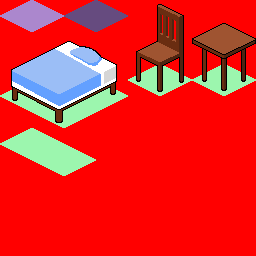
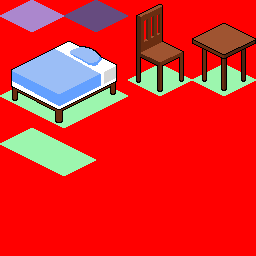
new sitting animation + base of sleeping animation

Changed region(s): [[0.5312, 0.0, 0.7188, 0.3438]]

diff --git a/src/menus/port_menu.py b/src/menus/port_menu.py
@@ -1442,6 +1442,8 @@ class PortMenu:
             )
             shipgirl.rect.center = shipgirl.pos
             shipgirl.interacting_decoration = tuple(tilepos_anchor)
+            shipgirl.sprite.set_animation(decoration_store_info.get("shipgirl_animation", Live2D.IDLE_ANIMATION))
+            shipgirl.facing_left = flipped
             return True
 
         shipgirl.interacting_decoration = None

diff --git a/src/shipgirls.py b/src/shipgirls.py
@@ -599,7 +599,6 @@ class Shipgirl:
             return
         
         if self.interacting_decoration is not None:
-            self.sprite.set_animation(Live2D.IDLE_ANIMATION)
             return
         
         if self.pause_time > 0:

diff --git a/live2d/live2d.py b/live2d/live2d.py
@@ -263,6 +263,8 @@ class Live2D:
     WALK_ANIMATION = "walk"
     ATTACK_ANIMATION = "attack"
     SINK_ANIMATION = "sink"
+    SLEEP_ANIMATION = "sleep"
+    SIT_ANIMATION = "sit"
 
     ANIMATION_SPEED = 1.0
     NUM_FRAMES = 12
